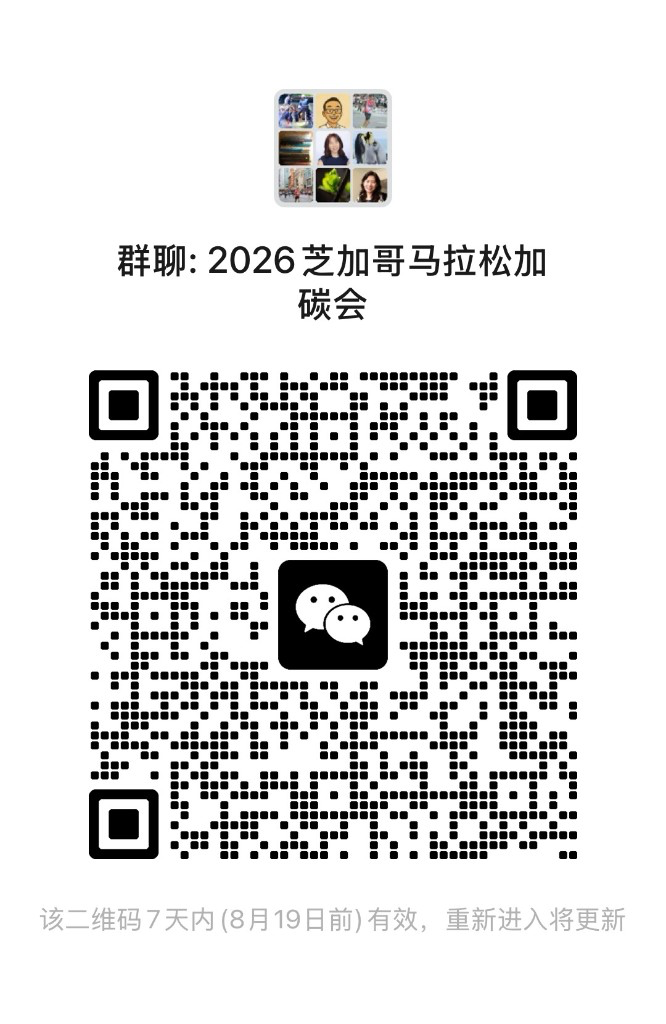
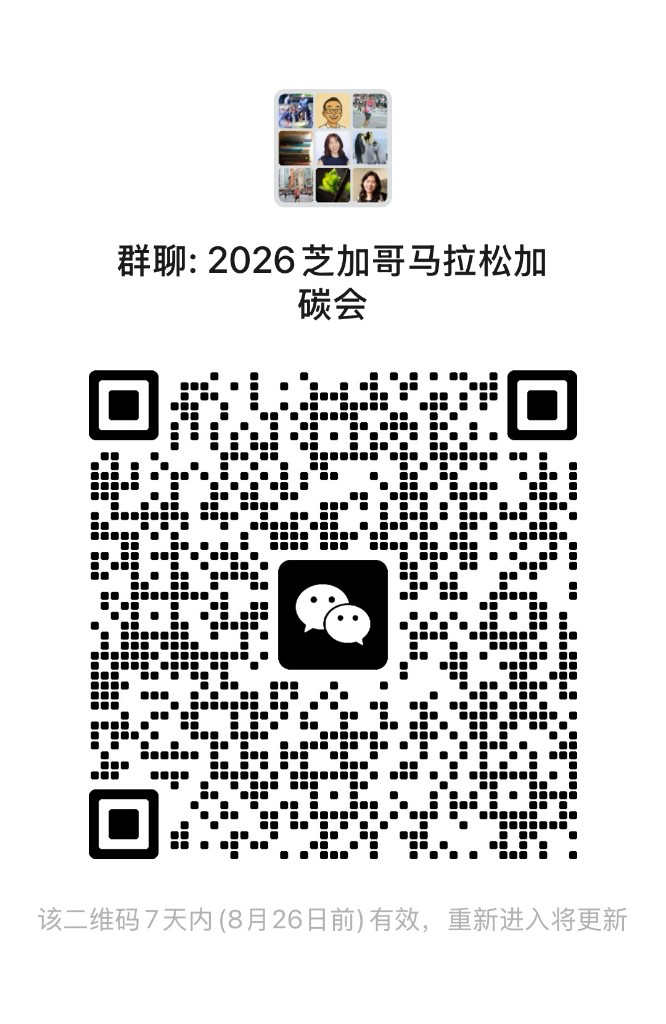
Send home visitors to the Chicago Marathon hub, and refresh WeChat group QR codes.

diff --git a/frontend/src/content/siteContent.js b/frontend/src/content/siteContent.js
@@ -190,12 +190,9 @@ export const CONTENT = {
         id: 'marathon',
         title: 'Chicago Marathon',
         description:
-          'CHI Running Club welcomes you to race weekend—guides for carb-loading, lodging, transportation, and more.',
-        sublinks: [
-          { label: 'Carb-loading dinner', to: '/chicagomarathon/carb-loading-dinner' },
-          { label: 'Hotels & lodging', to: '/chicagomarathon/hotel' },
-          { label: 'Transportation', to: '/chicagomarathon/transportation' },
-        ],
+          'Chicago Marathon weekend—guides for carb-loading, lodging, transportation, and more to help you race with confidence.',
+        cta: 'View Chicago Marathon guide',
+        to: '/chicagomarathon',
       },
       about: {
         id: 'about',
@@ -379,6 +376,11 @@ export const CONTENT = {
         },
       },
       backToHub: '← Back to Chicago Marathon',
+      wechatGroupTitle: 'Questions? Join our Chicago Marathon WeChat group',
+      wechatGroupBody:
+        'Scan to join—ask anything about race weekend, carb-loading, lodging, and transportation.',
+      wechatGroupQrAlt: 'Chicago Marathon WeChat group QR code',
+      wechatGroupQrSrc: '/marathon-welcome/chicago-marathon-hub-wechat-group-qr.png',
       bookingCtas: {
         carbLoading: 'Book carb-loading ticket',
         hotel: 'Book hotel',
@@ -725,13 +727,9 @@ export const CONTENT = {
       marathon: {
         id: 'marathon',
         title: '芝加哥马拉松',
-        description:
-          '驰跑团欢迎你来芝马周末——加碳会、住宿、交通等指南，助你从容参赛。',
-        sublinks: [
-          { label: '加碳会', to: '/chicagomarathon/carb-loading-dinner' },
-          { label: '住宿', to: '/chicagomarathon/hotel' },
-          { label: '交通', to: '/chicagomarathon/transportation' },
-        ],
+        description: '芝加哥马拉松周末——加碳会、住宿、交通等指南，助你从容参赛。',
+        cta: '查看芝马指南',
+        to: '/chicagomarathon',
       },
       about: {
         id: 'about',
@@ -908,6 +906,10 @@ export const CONTENT = {
         },
       },
       backToHub: '← 返回芝加哥马拉松',
+      wechatGroupTitle: '有问题？加入芝加哥马拉松微信群',
+      wechatGroupBody: '扫码进群，加碳会、住宿、交通等芝马周末问题都可以在群里问。',
+      wechatGroupQrAlt: '芝加哥马拉松微信群二维码',
+      wechatGroupQrSrc: '/marathon-welcome/chicago-marathon-hub-wechat-group-qr.png',
       bookingCtas: {
         carbLoading: '购买加碳会门票',
         hotel: '预订酒店',

diff --git a/frontend/src/pages/LandingPage.jsx b/frontend/src/pages/LandingPage.jsx
@@ -14,23 +14,43 @@ export default function LandingPage({ copy }) {
   const [homeHeroError, setHomeHeroError] = useState('')
 
   useEffect(() => {
-    async function loadHomeHeroPhotos() {
+    let cancelled = false
+
+    async function loadHomeHeroPhotos(attempt = 0) {
+      const maxAttempts = 5
+      const retryDelayMs = 1000
+
       try {
         const response = await fetch(apiUrl('/api/home-hero/photos'))
         if (!response.ok) {
-          setHomeHeroError(copy.homeHeroErrorLoad)
+          if (attempt + 1 < maxAttempts) {
+            window.setTimeout(() => loadHomeHeroPhotos(attempt + 1), retryDelayMs)
+            return
+          }
+          if (!cancelled) setHomeHeroError(copy.homeHeroErrorLoad)
           return
         }
+
         const data = await response.json()
         const loadedPhotos = (data.photos || []).map((url) => absMediaUrl(url))
-        setHomeHeroPhotos(loadedPhotos)
-        setHomeHeroPhotoIdx(0)
+        if (!cancelled) {
+          setHomeHeroPhotos(loadedPhotos)
+          setHomeHeroPhotoIdx(0)
+          setHomeHeroError('')
+        }
       } catch {
-        setHomeHeroError(copy.homeHeroErrorConnect)
+        if (attempt + 1 < maxAttempts) {
+          window.setTimeout(() => loadHomeHeroPhotos(attempt + 1), retryDelayMs)
+          return
+        }
+        if (!cancelled) setHomeHeroError(copy.homeHeroErrorConnect)
       }
     }
 
     loadHomeHeroPhotos()
+    return () => {
+      cancelled = true
+    }
   }, [copy.homeHeroErrorConnect, copy.homeHeroErrorLoad])
 
   useEffect(() => {
@@ -97,11 +117,12 @@ export default function LandingPage({ copy }) {
 
       <section className="section homeExploreSection" aria-label={explore.sectionTitle}>
         <div className="homeExploreGrid">
-          <HomeExploreSublinks
+          <HomeExploreCard
             id={explore.marathon.id}
             title={explore.marathon.title}
             description={explore.marathon.description}
-            sublinks={explore.marathon.sublinks}
+            cta={explore.marathon.cta}
+            to={explore.marathon.to}
           />
           <HomeExploreCard
             id={explore.checkins.id}

diff --git a/frontend/src/pages/ChicagoMarathonWelcomePage.jsx b/frontend/src/pages/ChicagoMarathonWelcomePage.jsx
@@ -37,6 +37,28 @@ export default function ChicagoMarathonWelcomePage({ copy }) {
             />
           </div>
         </section>
+
+        <section className="section pb-2">
+          <div className="rounded-2xl border border-neutral-200/70 bg-white/70 p-5 shadow-sm dark:border-neutral-700/60 dark:bg-neutral-900/40 sm:p-6">
+            <h3 className="text-base font-semibold text-neutral-900 dark:text-neutral-100">
+              {mw.wechatGroupTitle}
+            </h3>
+            <p className="mt-2 text-sm leading-relaxed text-neutral-700 dark:text-neutral-300">
+              {mw.wechatGroupBody}
+            </p>
+            <div className="mt-5 flex justify-center sm:justify-start">
+              <div className="rounded-xl border border-neutral-200 bg-white p-3 shadow-sm dark:border-neutral-700 dark:bg-neutral-950">
+                <img
+                  src={mw.wechatGroupQrSrc}
+                  alt={mw.wechatGroupQrAlt}
+                  loading="lazy"
+                  decoding="async"
+                  className="h-auto w-[220px] max-w-full sm:w-[240px]"
+                />
+              </div>
+            </div>
+          </div>
+        </section>
       </div>
     </main>
   )
